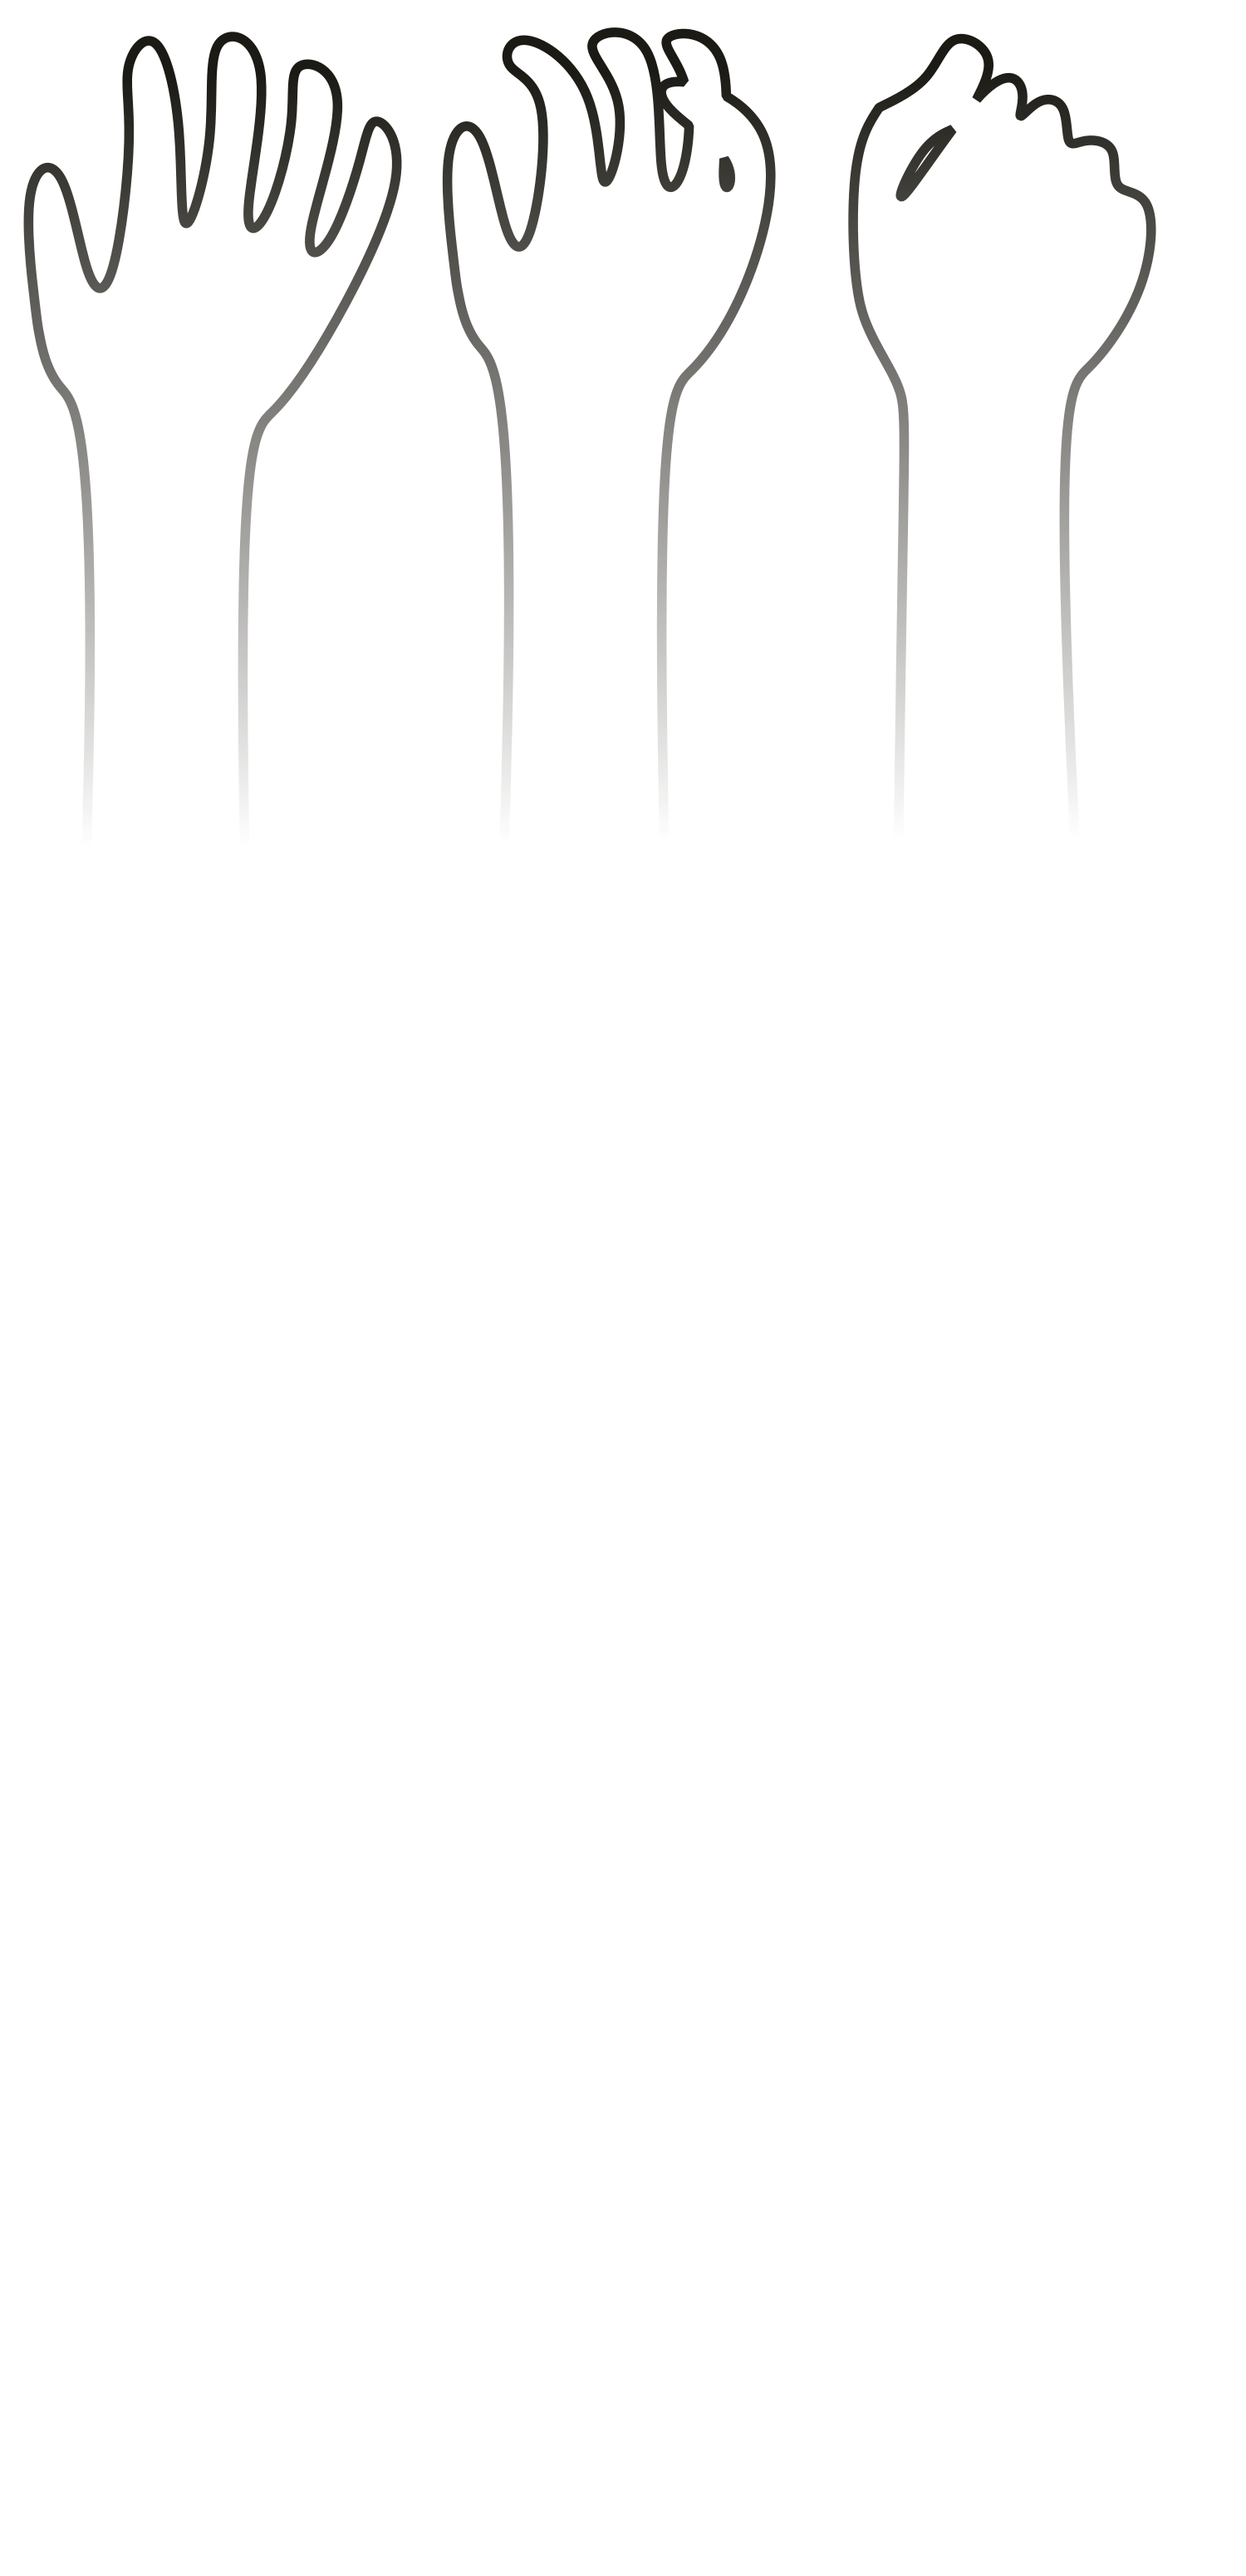
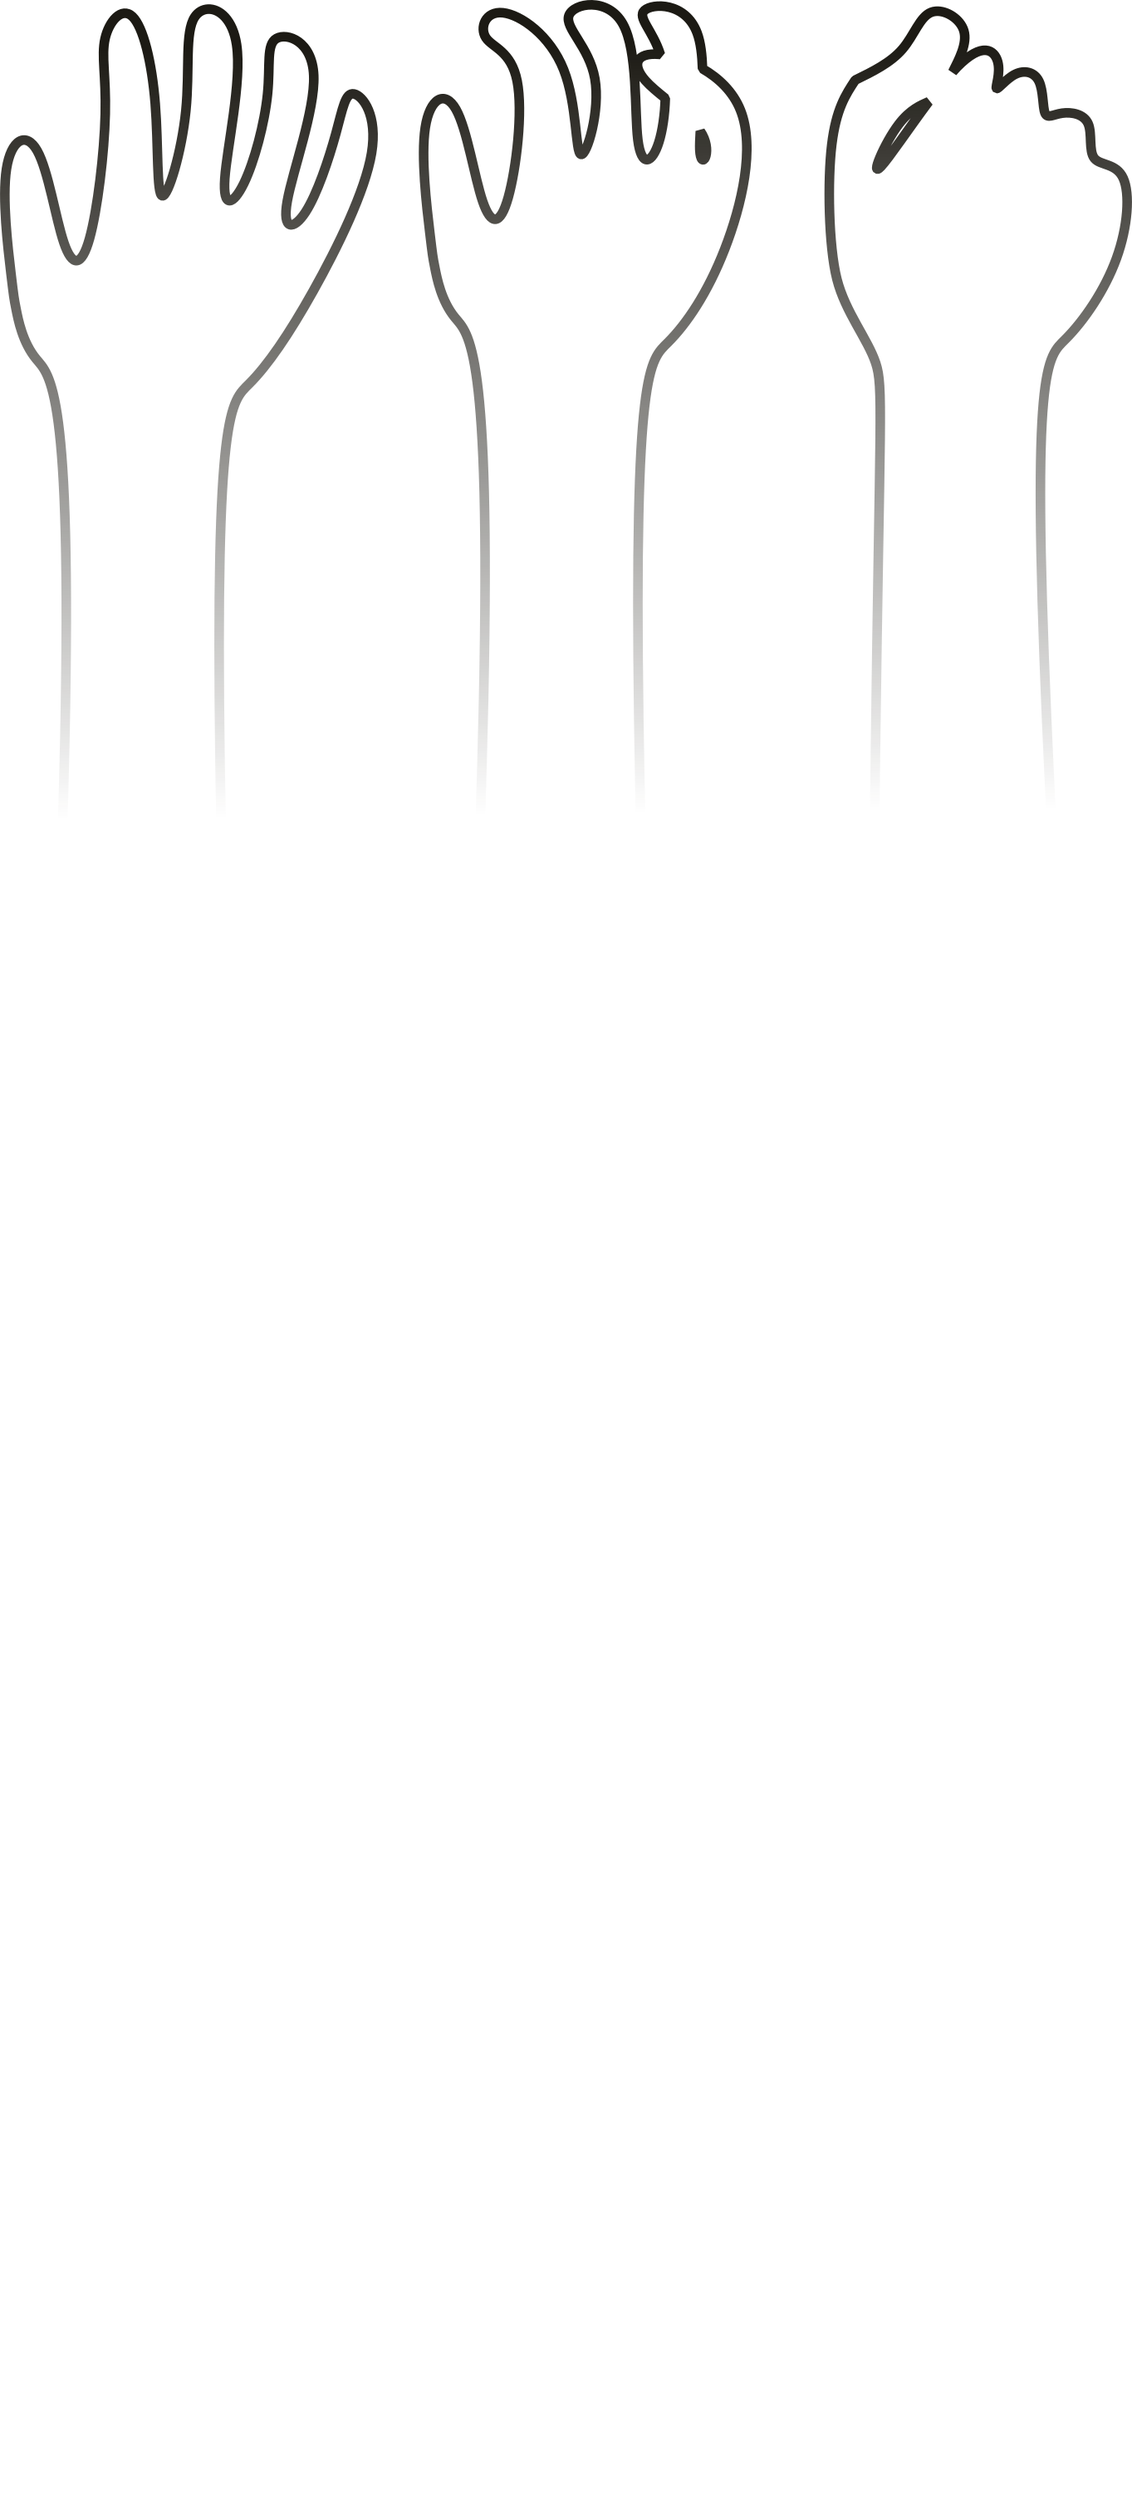
added hand shooting

Changed region(s): [[0.0, 0.0, 1.0, 0.312], [0.832, 0.156, 0.8628, 0.2808], [0.1849, 0.156, 0.2157, 0.2496]]

diff --git a/src/arms.rs b/src/arms.rs
@@ -4,8 +4,13 @@ use bevy::prelude::*;
 use bevy_rapier2d::prelude::{Collider, CollisionEvent, GravityScale, RigidBody, Sensor, Velocity};
 use rand::*;
 
+use crate::{camera::FollowedByCamera, rocket_launcher::RocketTarget};
+
 #[derive(Component)]
 struct Arms;
+
+#[derive(Component)]
+struct GrabHitbox;
 
 #[derive(Resource)]
 struct SpawnArmTimer(Timer);
@@ -57,13 +62,27 @@ fn spawn_arms(
                 parent.spawn((
                     SpatialBundle {
                         transform: Transform {
-                            translation: Vec3::new(0.0, 225.0, 0.1),
+                            translation: Vec3::new(-10.0, 225.0, 0.1),
                             ..default()
                         },
                         ..default()
                     },
                     Sensor,
                     Collider::cuboid(150.0, 150.0),
+                    GrabHitbox,
+                ));
+
+                parent.spawn((
+                    SpatialBundle {
+                        transform: Transform {
+                            translation: Vec3::new(-10.0, 225.0, 0.1),
+                            ..default()
+                        },
+                        ..default()
+                    },
+                    Sensor,
+                    Collider::cuboid(200.0, 300.0),
+                    RocketTarget,
                 ));
             });
     }
@@ -71,15 +90,15 @@ fn spawn_arms(
     spawn_arm_timer.0.tick(time.delta());
 }
 
-//check for collision
-//update sprite to grabby one
-//set velocity to 0
-//trigger a delete player
 fn grab_target(
     mut collision_events: EventReader<CollisionEvent>,
     target_query: Query<Entity, (With<ArmsTarget>, Without<Arms>)>,
     mut commands: Commands,
-    mut hands_query: Query<(&Children, &mut Velocity), (With<Arms>, Without<ArmsTarget>)>,
+    mut hands_query: Query<
+        (Entity, &Children, &mut TextureAtlasSprite),
+        (With<Arms>, Without<ArmsTarget>),
+    >,
+    grab_hit_box_query: Query<Entity, With<GrabHitbox>>,
 ) {
     let Ok(target) = target_query.get_single() else {
       return;
@@ -87,21 +106,50 @@ fn grab_target(
 
     for collision in collision_events.iter() {
         if let CollisionEvent::Started(h1, h2, _event_flag) = collision {
-            for (hand_children, mut hand_velocity) in hands_query.iter_mut() {
-                let hand = hand_children.iter().next().unwrap();
+            for (hand, hand_children, mut sprite) in hands_query.iter_mut() {
+                let mut grab_hitbox = Err("no hitbox");
 
-                if h1 == &target && h2 == hand {
-                    commands.entity(target).despawn_recursive();
-
-                    hand_velocity.linvel = Vec2::ZERO;
+                for child in hand_children.iter() {
+                    if let Ok(child_grab_hitbox) = grab_hit_box_query.get(*child) {
+                        grab_hitbox = Ok(child_grab_hitbox);
+                    }
                 }
 
-                if h2 == &target && h1 == hand {
+                if h1 == &target && h2 == &grab_hitbox.unwrap() {
                     commands.entity(target).despawn_recursive();
 
-                    hand_velocity.linvel = Vec2::ZERO;
+                    commands.entity(hand).insert(FollowedByCamera);
+                    sprite.index = 2;
+                }
+
+                if h2 == &target && h1 == &grab_hitbox.unwrap() {
+                    commands.entity(target).despawn_recursive();
+
+                    commands.entity(hand).insert(FollowedByCamera);
+                    sprite.index = 2;
                 }
             }
+        }
+    }
+}
+
+fn chase_target(
+    target_query: Query<&Transform, (With<ArmsTarget>, Without<Arms>)>,
+    mut hands_query: Query<
+        (&Transform, &mut Velocity, &mut TextureAtlasSprite),
+        (With<Arms>, Without<ArmsTarget>),
+    >,
+) {
+    let Ok(target) = target_query.get_single() else {
+        return;
+    };
+
+    for (hand_transform, mut hand_velocity, mut hand_sprite) in hands_query.iter_mut() {
+        if (hand_transform.translation.y - target.translation.y).abs() < 550.0
+            && (hand_transform.translation.x - target.translation.x).abs() < 150.0
+        {
+            hand_velocity.linvel = Vec2::new(0.0, 600.0);
+            hand_sprite.index = 1;
         }
     }
 }
@@ -118,6 +166,7 @@ impl Plugin for ArmsPlugin {
             TimerMode::Repeating,
         )))
         .add_system(spawn_arms)
+        .add_system(chase_target)
         .add_system(grab_target);
     }
 }

diff --git a/src/rocket_launcher.rs b/src/rocket_launcher.rs
@@ -20,7 +20,7 @@ fn spawn_rocket_launcher(
     for launcher_holder in ev_rocket_holder_spawns.iter() {
         let child = commands
             .spawn((
-                RocketLauncher { power: 400.0 },
+                RocketLauncher { power: 800.0 },
                 SpriteBundle {
                     texture: asset_server.load("rocket_launcher.png"),
                     sprite: Sprite {
@@ -146,19 +146,47 @@ fn rocket_launcher_shoots(
                 ),
                 ..default()
             },
-            Name::new("Rocket")
+            Name::new("Rocket"),
+            ActiveEvents::COLLISION_EVENTS,
         ));
+    }
+}
+
+fn handle_rocket_hit(
+    mut ev_collision: EventReader<CollisionEvent>,
+    rocket_targets: Query<(Entity, Option<&Parent>), (With<RocketTarget>, Without<Rocket>)>,
+    rockets: Query<Entity, (With<Rocket>, Without<RocketTarget>)>,
+    mut commands: Commands,
+) {
+    for collision_event in ev_collision.iter() {
+        if let CollisionEvent::Started(h1, h2, _event_flag) = collision_event {
+            for (target, parent_option) in rocket_targets.iter() {
+                for rocket in rockets.iter() {
+                    if h1 == &target && h2 == &rocket || h2 == &target && h1 == &rocket {
+                        if let Some(parent) = parent_option {
+                            commands.entity(**parent).despawn_recursive();
+                        } else {
+                            commands.entity(target).despawn_recursive();
+                        }
+                    }
+                }
+            }
+        }
     }
 }
 
 pub struct RocketLauncherHolderSpawns(pub Entity);
 pub struct RocketLauncherPlugin;
 
+#[derive(Component)]
+pub struct RocketTarget;
+
 impl Plugin for RocketLauncherPlugin {
     fn build(&self, app: &mut App) {
         app.add_system(spawn_rocket_launcher)
             .add_system(rocket_launcher_follows_mouse)
             .add_system(rocket_launcher_shoots)
+            .add_system(handle_rocket_hit)
             .add_event::<RocketLauncherHolderSpawns>();
     }
 }

diff --git a/src/camera.rs b/src/camera.rs
@@ -7,6 +7,8 @@ fn create_camera(mut commands: Commands) {
     commands.spawn((Camera2dBundle::default(), GameCamera, Name::new("Camera")));
 }
 
+//breaks if following children
+//there should be only one entity with FollowedByCamera at once
 fn camera_follow(
     mut camera_query: Query<&mut Transform, (With<GameCamera>, Without<FollowedByCamera>)>,
     mut followed_by_camera_query: Query<
@@ -20,6 +22,7 @@ fn camera_follow(
     };
 
     let delta = followed.translation - camera.translation;
+
     camera.translation = Vec3::new(
         camera.translation.x + delta.x * 0.1,
         camera.translation.y + delta.y * 0.1,
